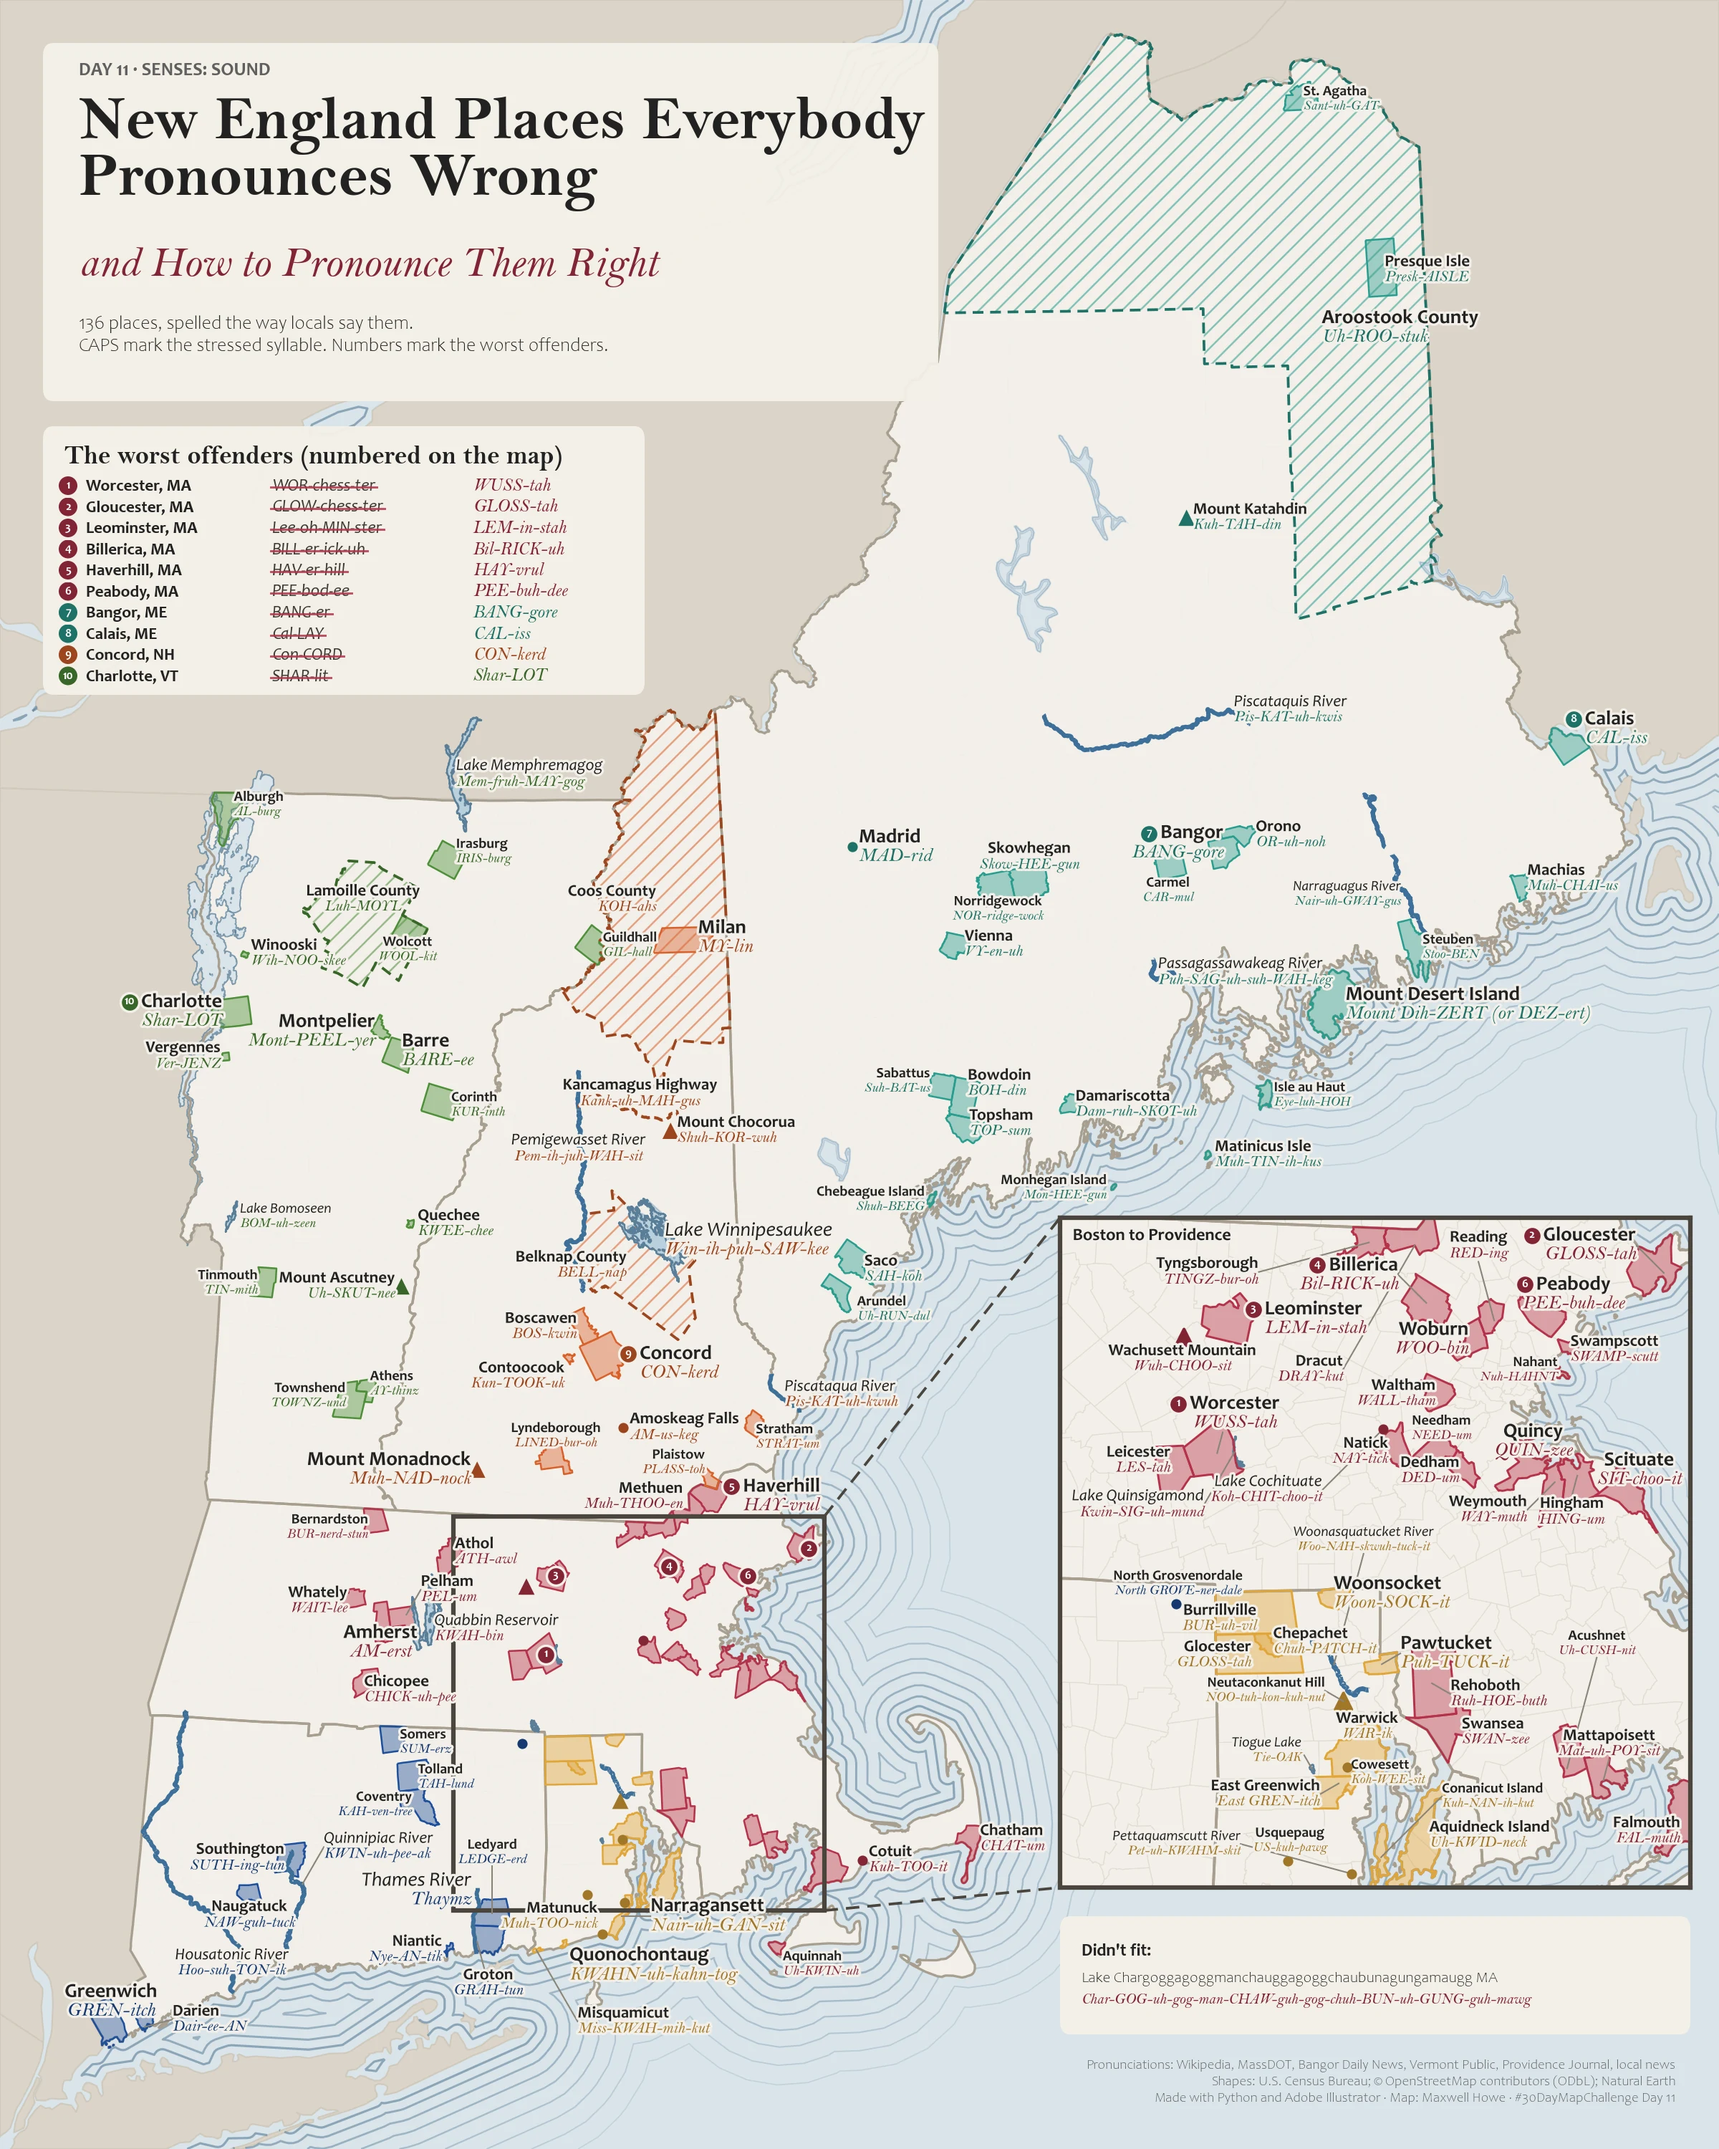
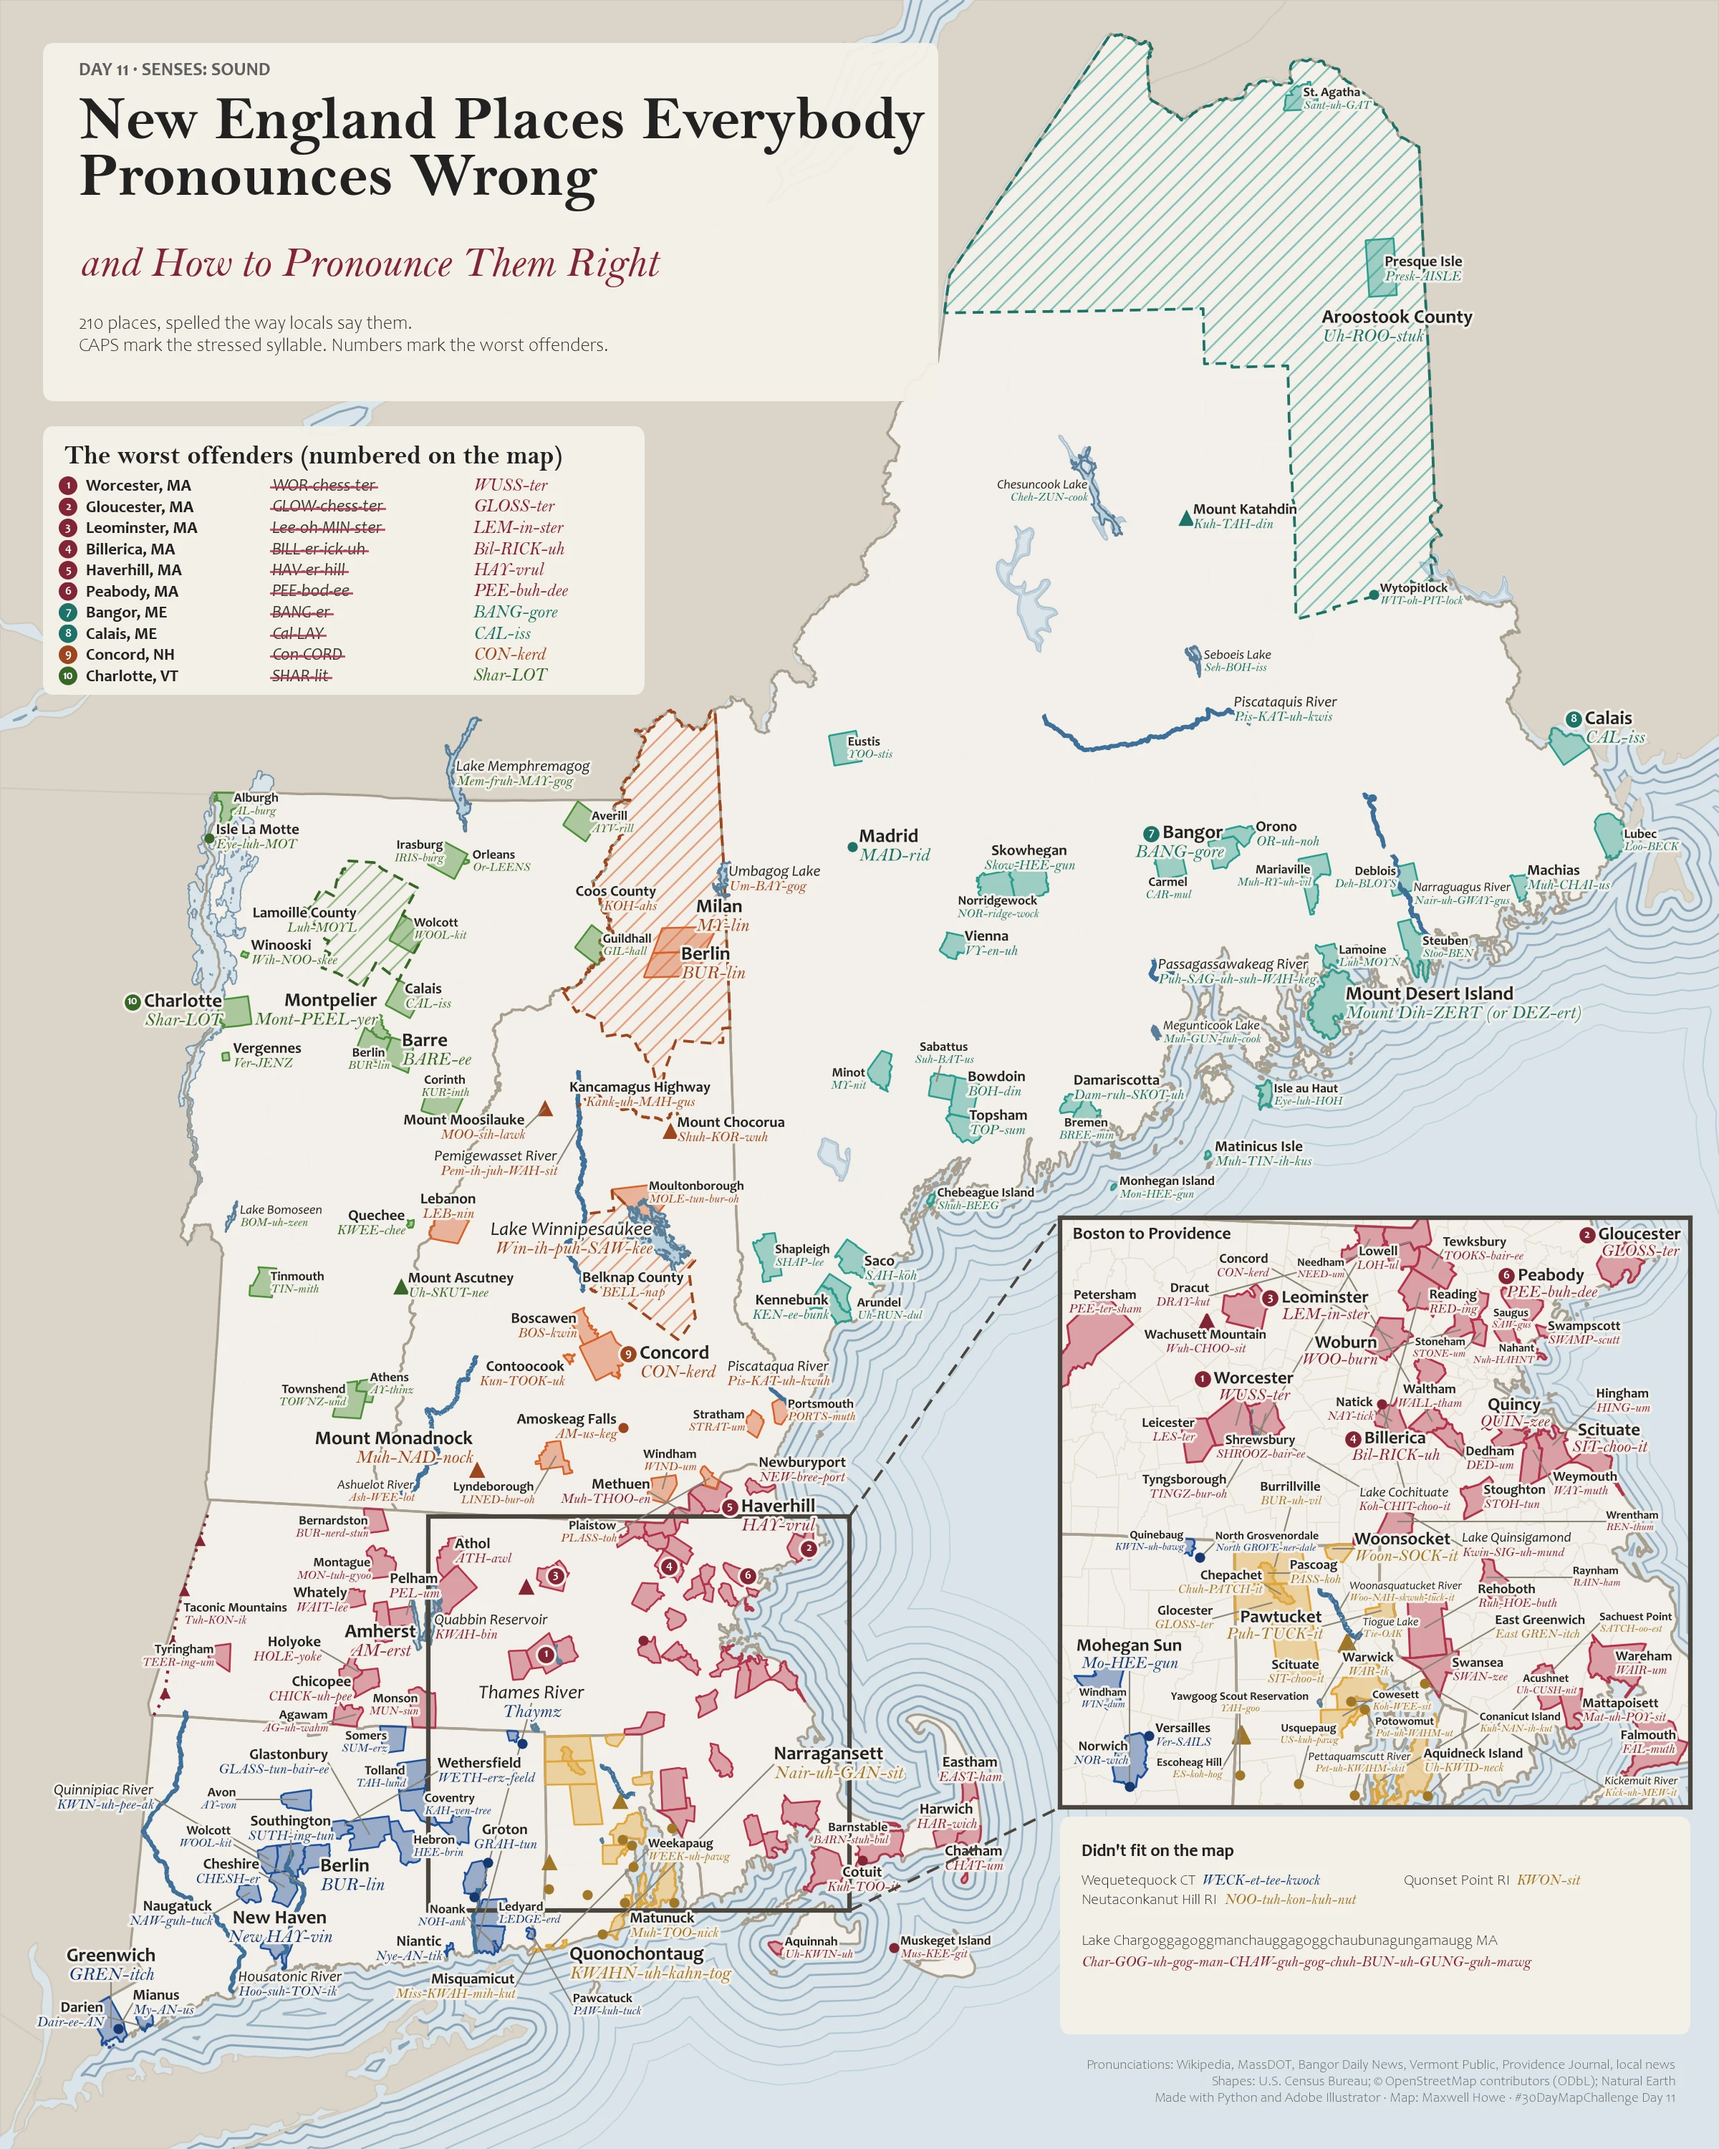
30 Day Maps: use updated versions of days 2, 3, 6, 11, 14, 15
Day 11 now reads 153 places, matching the updated map.

Claude-Session: https://claude.ai/code/session_017MKtvsHcFumogUpQWP4B4W

diff --git a/30-day-maps/index.html b/30-day-maps/index.html
@@ -131,7 +131,7 @@
             <div class="kicker">Day 11 · Senses: Sound</div>
             <h2>New England Places Everybody Pronounces Wrong</h2>
             <figure><a href="/images/30-day-maps/day11-full.webp"><img src="/images/30-day-maps/day11.webp" alt="Map: New England Places Everybody Pronounces Wrong" loading="lazy" decoding="async"></a></figure>
-            <p>136 towns, rivers, lakes and mountains spelled the way locals say them: WUSS-tah, GLOSS-tah, LEM-in-stah. Capitals mark the stressed syllable and the worst offenders are numbered. Every pronunciation has two sources.</p>
+            <p>153 towns, rivers, lakes and mountains spelled the way locals say them: WUSS-ter, GLOSS-ter, LEM-in-ster. Capitals mark the stressed syllable and the worst offenders are numbered. Every pronunciation has two sources.</p>
             <p class="map-credit">Data: Wikipedia IPA, local news and town sources, US Census Bureau, OpenStreetMap<br>Made with: Python (geopandas, matplotlib), Illustrator</p>
         </article>
 

diff --git a/src/portfolio/maps.html b/src/portfolio/maps.html
@@ -120,7 +120,7 @@
             <div class="kicker">Day 11 · Senses: Sound</div>
             <h2>New England Places Everybody Pronounces Wrong</h2>
             <figure><a href="/images/30-day-maps/day11-full.webp"><img src="/images/30-day-maps/day11.webp" alt="Map: New England Places Everybody Pronounces Wrong" loading="lazy" decoding="async"></a></figure>
-            <p>136 towns, rivers, lakes and mountains spelled the way locals say them: WUSS-tah, GLOSS-tah, LEM-in-stah. Capitals mark the stressed syllable and the worst offenders are numbered. Every pronunciation has two sources.</p>
+            <p>153 towns, rivers, lakes and mountains spelled the way locals say them: WUSS-ter, GLOSS-ter, LEM-in-ster. Capitals mark the stressed syllable and the worst offenders are numbered. Every pronunciation has two sources.</p>
             <p class="map-credit">Data: Wikipedia IPA, local news and town sources, US Census Bureau, OpenStreetMap<br>Made with: Python (geopandas, matplotlib), Illustrator</p>
         </article>
 
